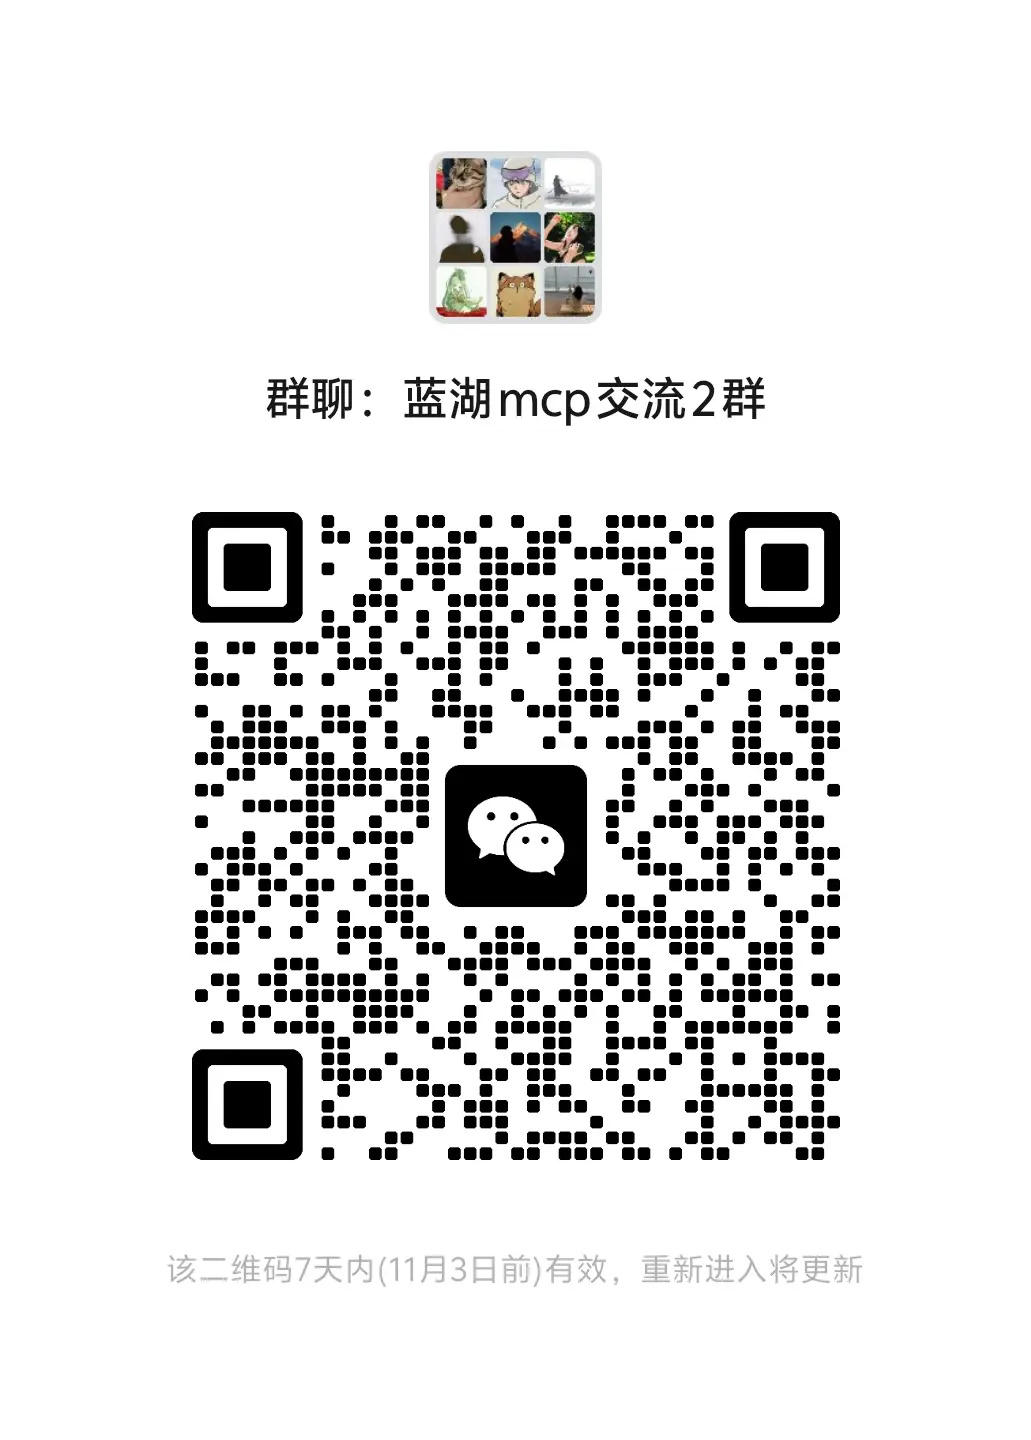
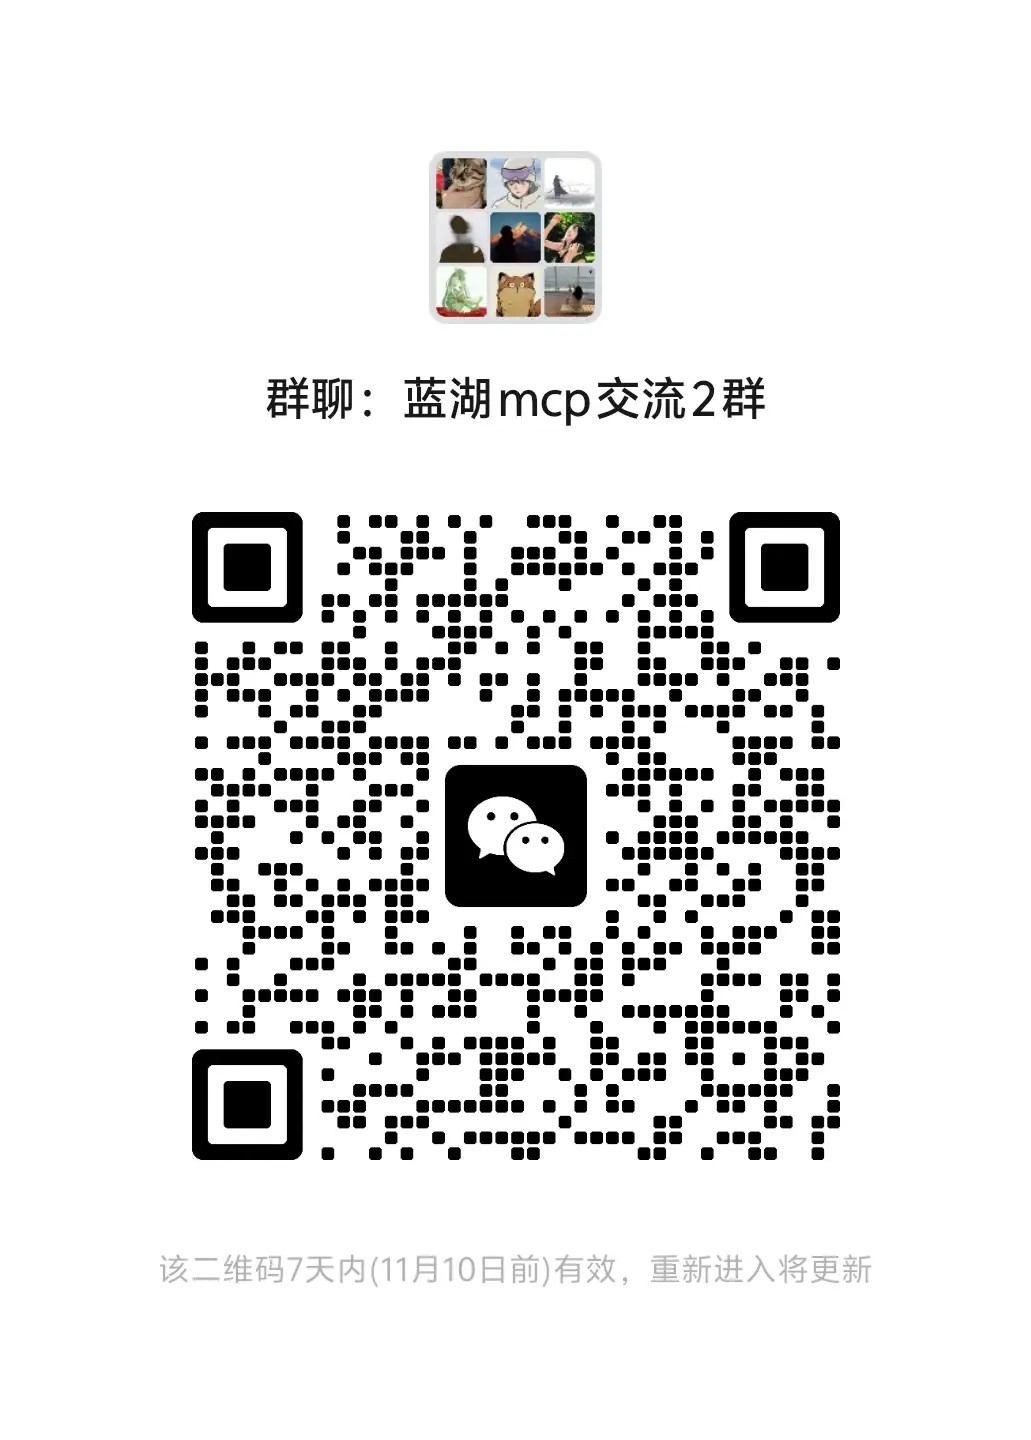
更新微信群二维码 / Update WeChat group QR code
Replace the group-2 invite with the code 鹤 provided, valid through November 10, and bump the README cache-buster to 20261103.

diff --git a/README.md b/README.md
@@ -1001,7 +1001,7 @@ black lanhu_mcp_server.py
 
 - 提交 Issue: [GitHub Issues](https://github.com/dsphper/lanhu-mcp/issues)
 - 邮件: dsphper@gmail.com
-<p align="center"><img src="images/wechat.jpg?v=20261027" alt="微信群二维码" width="400" /></p>
+<p align="center"><img src="images/wechat.jpg?v=20261103" alt="微信群二维码" width="400" /></p>
 
 ## 🗺 路线图
 
